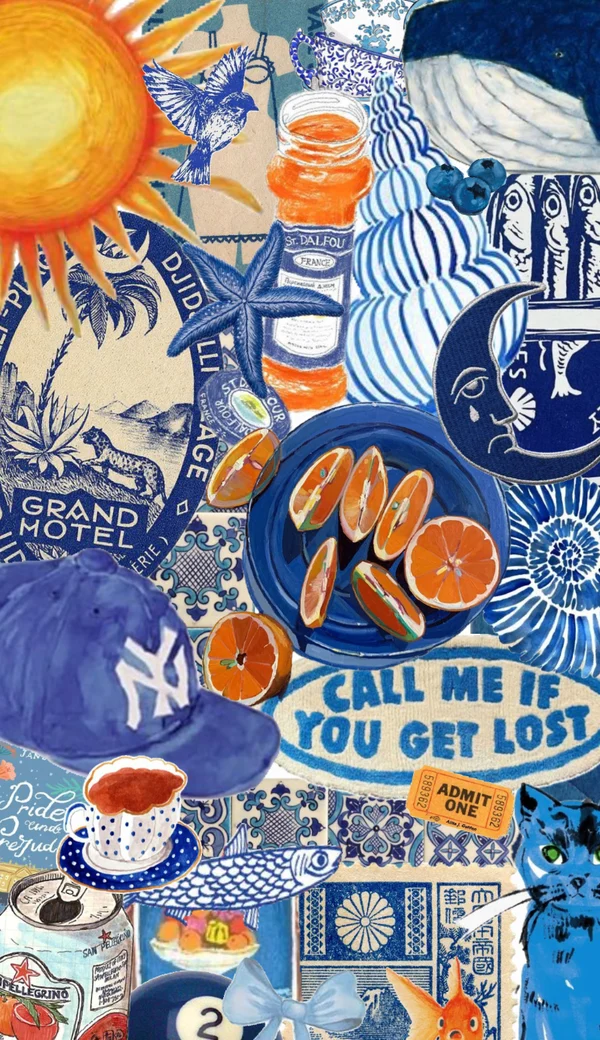
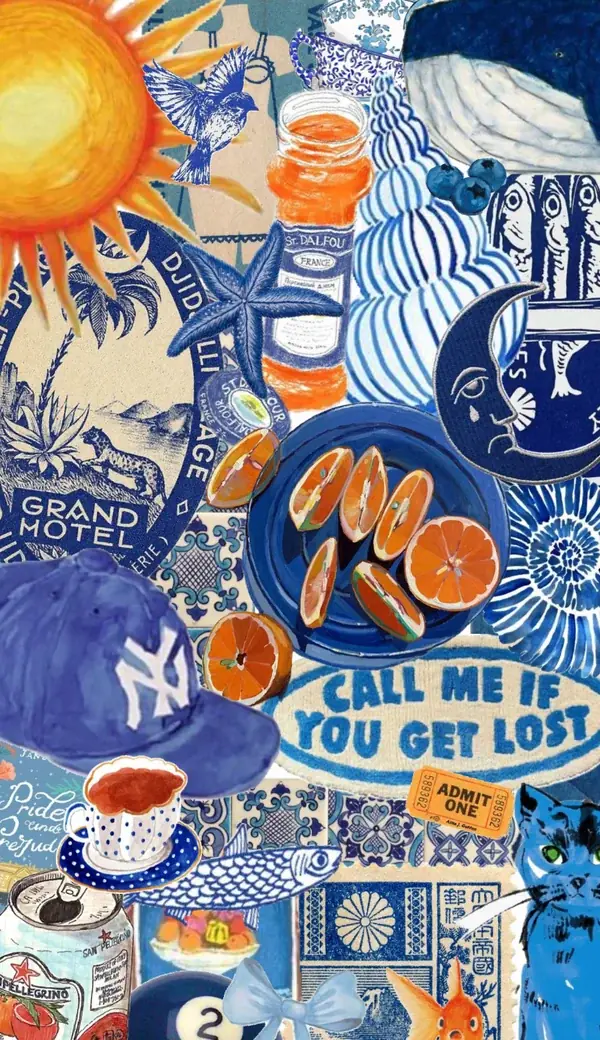
Make the site faster and smoother
Draw the 3D hero only when something moves, at a lighter pixel ratio and
shadow size; skip redundant arcade redraws; lighter blur on hushed arches;
preload three.js; smaller images; cache assets for 30 days.

Claude-Session: https://claude.ai/code/session_01MKNsCXc67YKaLELKs1qUTQ

diff --git a/index.html b/index.html
@@ -7,6 +7,7 @@
 <meta property="og:title" content="Loggia Portfolio Studio">
 <meta property="og:description" content="Custom websites, digital portfolios and brand identities, led from concept to launch.">
 <meta property="og:type" content="website">
+<link rel="modulepreload" href="https://cdn.jsdelivr.net/npm/three@0.160.0/build/three.module.js" crossorigin>
 <meta charset="utf-8">
 <title>Loggia Portfolio Studio</title>
 <link rel="preconnect" href="https://fonts.googleapis.com">
@@ -192,7 +193,7 @@ section{padding-block:clamp(88px,13vw,180px)}
 .facade .view::after{content:"";position:absolute;inset:0;border-radius:inherit;box-shadow:inset 26px 20px 40px rgba(0,0,0,.22);pointer-events:none}
 .facade .view:hover > *{filter:brightness(1.06)}
 /* inside one arch, the others go out of focus */
-.facade .view.hush > *{filter:blur(22px) saturate(.5);opacity:.35}
+.facade .view.hush > *{filter:blur(12px);opacity:.18}
 .facade .name{transition:opacity .5s var(--ease)}
 .facade .name.hush{opacity:0}
 .arcade{touch-action:pan-y}
@@ -604,7 +605,7 @@ footer button{background:none;border:0;color:inherit;font:inherit;letter-spacing
   const ARCH={x:[270,600,930],y:440,w:300,h:520};
   const KEYS=[[0,'o'],[.08,'o'],[.22,0],[.34,0],[.46,1],[.58,1],[.70,2],[.84,2],[.97,'o'],[1,'o']];
   const HOLD=[.28,.52,.77];
-  let vw=1,vh=1,phone=false,p=0,tp=0,running=false;
+  let vw=1,vh=1,phone=false,p=0,tp=0,running=false,drawn=-1;
   const ease=t=>t<.5?4*t*t*t:1-Math.pow(-2*t+2,3)/2;
   function state(k){
     if(k==='o'){const s=Math.min(vw*(phone?.96:.86)/1200,vh*(phone?.42:.6)/760);return{cx:600,cy:440,s,ax:.5,ay:phone?.56:.6}}
@@ -634,7 +635,7 @@ footer button{background:none;border:0;color:inherit;font:inherit;letter-spacing
     panels.forEach((el,i)=>el.classList.toggle('on',i===active));
     navs.forEach((b,i)=>b.setAttribute('aria-current',i===active?'true':'false'));
   }
-  function measure(){vw=stage.clientWidth;vh=stage.clientHeight;phone=matchMedia('(max-width:760px)').matches;render()}
+  function measure(){vw=stage.clientWidth;vh=stage.clientHeight;phone=matchMedia('(max-width:760px)').matches;drawn=p;render()}
   function progress(){if(compact)return 0;const r=track.getBoundingClientRect();return Math.min(1,Math.max(0,-r.top/(r.height-vh)))}
   /* the walk-through plays once. After a visitor has been through it, the section folds to a single
      screen showing the three arches, so scrolling past is simple; clicking an arch opens the walk again */
@@ -651,7 +652,8 @@ footer button{background:none;border:0;color:inherit;font:inherit;letter-spacing
   }
   function loop(){
     if(!running)return; requestAnimationFrame(loop);
-    tp=progress(); if(tp>.9)seen=true; p+=reduce?(tp-p):(tp-p)*.14; if(Math.abs(tp-p)<.0001)p=tp; render();
+    tp=progress(); if(tp>.9)seen=true; p+=reduce?(tp-p):(tp-p)*.14; if(Math.abs(tp-p)<.0001)p=tp;
+    if(p!==drawn){drawn=p;render()} // nothing to redraw while the page is still
   }
   new IntersectionObserver(es=>{const on=es[0].isIntersecting;if(on&&!running){running=true;requestAnimationFrame(loop)}else if(!on){running=false;fold()}},{rootMargin:'100px 0px'}).observe(track);
   new ResizeObserver(measure).observe(stage);
@@ -702,7 +704,7 @@ try{renderer=new THREE.WebGLRenderer({canvas,antialias:true,alpha:true})}catch(e
 if(renderer){
 const namer=document.getElementById('namer'), nm=document.getElementById('nm'), ghost=document.getElementById('ghost'), after=document.getElementById('after'), hintP=document.getElementById('nmHint'), hint=document.getElementById('turnHint');
 
-renderer.setPixelRatio(Math.min(devicePixelRatio,2));
+renderer.setPixelRatio(Math.min(devicePixelRatio,1.5)); // sharp enough, far less GPU work on retina screens
 renderer.shadowMap.enabled=true; renderer.shadowMap.type=THREE.PCFSoftShadowMap;
 renderer.outputColorSpace=THREE.SRGBColorSpace;
 const scene=new THREE.Scene();
@@ -711,7 +713,7 @@ const camera=new THREE.PerspectiveCamera(26,1,.1,100);
 /* light and floor: the floor only shows shadows; the backdrop is CSS so it follows the theme */
 const hemi=new THREE.HemisphereLight(0xffffff,0xffffff,1.6); scene.add(hemi);
 const key=new THREE.DirectionalLight(0xffffff,2.4); key.position.set(-2.2,4.2,-2.4); key.castShadow=true;
-key.shadow.mapSize.set(2048,2048); Object.assign(key.shadow.camera,{left:-6,right:6,top:4,bottom:-3,near:1,far:20});
+key.shadow.mapSize.set(1024,1024); Object.assign(key.shadow.camera,{left:-6,right:6,top:4,bottom:-3,near:1,far:20});
 key.shadow.bias=-.0006; key.shadow.normalBias=.01; scene.add(key);
 const rim=new THREE.DirectionalLight(0xffffff,1.1); rim.position.set(2.5,2,4.5); scene.add(rim);
 const floorMat=new THREE.ShadowMaterial({opacity:.16});
@@ -1061,14 +1063,14 @@ function placeSubline(){
   const capTop=((size-(m.fontBoundingBoxAscent+m.fontBoundingBoxDescent))/2+m.fontBoundingBoxAscent-m.actualBoundingBoxAscent)||size*.2;
   Object.assign(subline.style,{top:(base+capPx*1.11-capTop)+'px',fontSize:size+'px',letterSpacing:track+'px',textIndent:track+'px',lineHeight:'1'});
 }
-let dirty=true, visible=true, last=performance.now();
-new IntersectionObserver(es=>{visible=es[0].isIntersecting}).observe(stage);
+let dirty=true, visible=true, last=performance.now(), lastDraw=0; const lastCam=new THREE.Vector3(1e9,0,0);
+new IntersectionObserver(es=>{visible=es[0].isIntersecting;dirty=true}).observe(stage);
 const v=new THREE.Vector3();
 function frame(t){
   requestAnimationFrame(frame);
   const dt=Math.max(0,Math.min(.05,(t-last)/1000)); last=t; now+=dt;
   if(!visible)return;
-  for(let i=tweens.length-1;i>=0;i--){const w=tweens[i],p=Math.min(1,(now-w.t0)/w.dur);w.fn(w.ease(p));if(p>=1){tweens.splice(i,1);w.res()}}
+  for(let i=tweens.length-1;i>=0;i--){const w=tweens[i],p=Math.min(1,(now-w.t0)/w.dur);w.fn(w.ease(p));if(p>=1){tweens.splice(i,1);w.res();dirty=true}}
   if(!busy&&canHover&&!reduce&&inside&&!drag&&mode!=='preview'&&document.activeElement!==nm&&now-orbit.at>4&&orbit.yaw===0&&orbit.pitch===0&&now-restAt>1.4&&now-lastVisit>4)visit();
   if(!busy&&caret.idle&&caret.form==='dot'&&!reduce)setScale(caret,1,1+.035*Math.sin(now*4)); // the resting dot breathes
   const k=reduce?1:1-Math.pow(.9,dt*60);
@@ -1090,6 +1092,11 @@ function frame(t){
   if(turning!==stage.classList.contains('turning'))stage.classList.toggle('turning',turning);
   floor.visible=camera.position.y>.05; // from underneath there is no floor to cast on
   canvas.classList.toggle('free',free());
+  // draw only when something moved; a resting dot just breathes, which needs a gentle 30 fps at most
+  const cp=camera.position, moving=dirty||tweens.length||drag||Math.abs(cp.x-lastCam.x)+Math.abs(cp.y-lastCam.y)+Math.abs(cp.z-lastCam.z)>1e-5;
+  const breathing=!busy&&caret.idle&&caret.form==='dot'&&!reduce;
+  if(!moving&&!(breathing&&t-lastDraw>33))return;
+  lastCam.copy(cp); lastDraw=t; dirty=false;
   renderer.render(scene,camera);
   // place the subline under the word and the horizon line behind it
   placeSubline();
